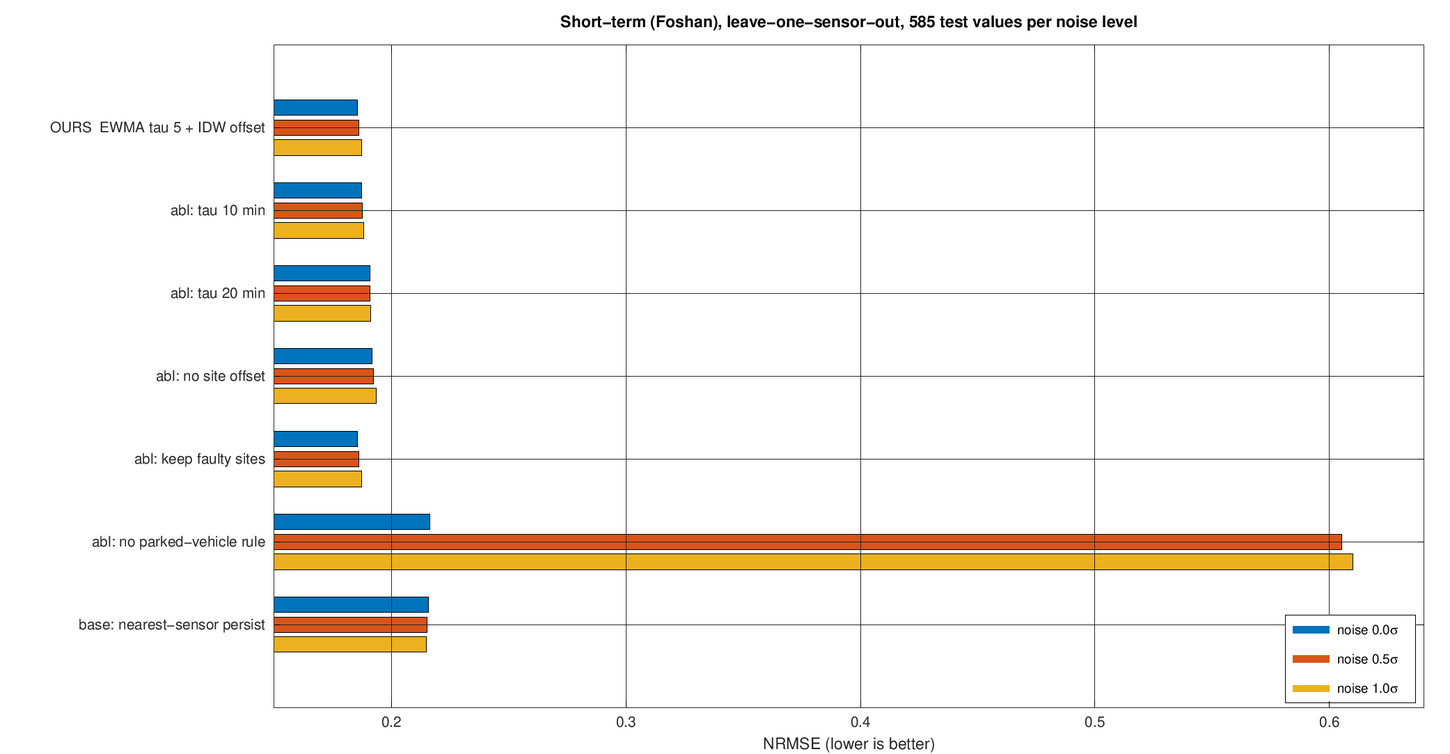
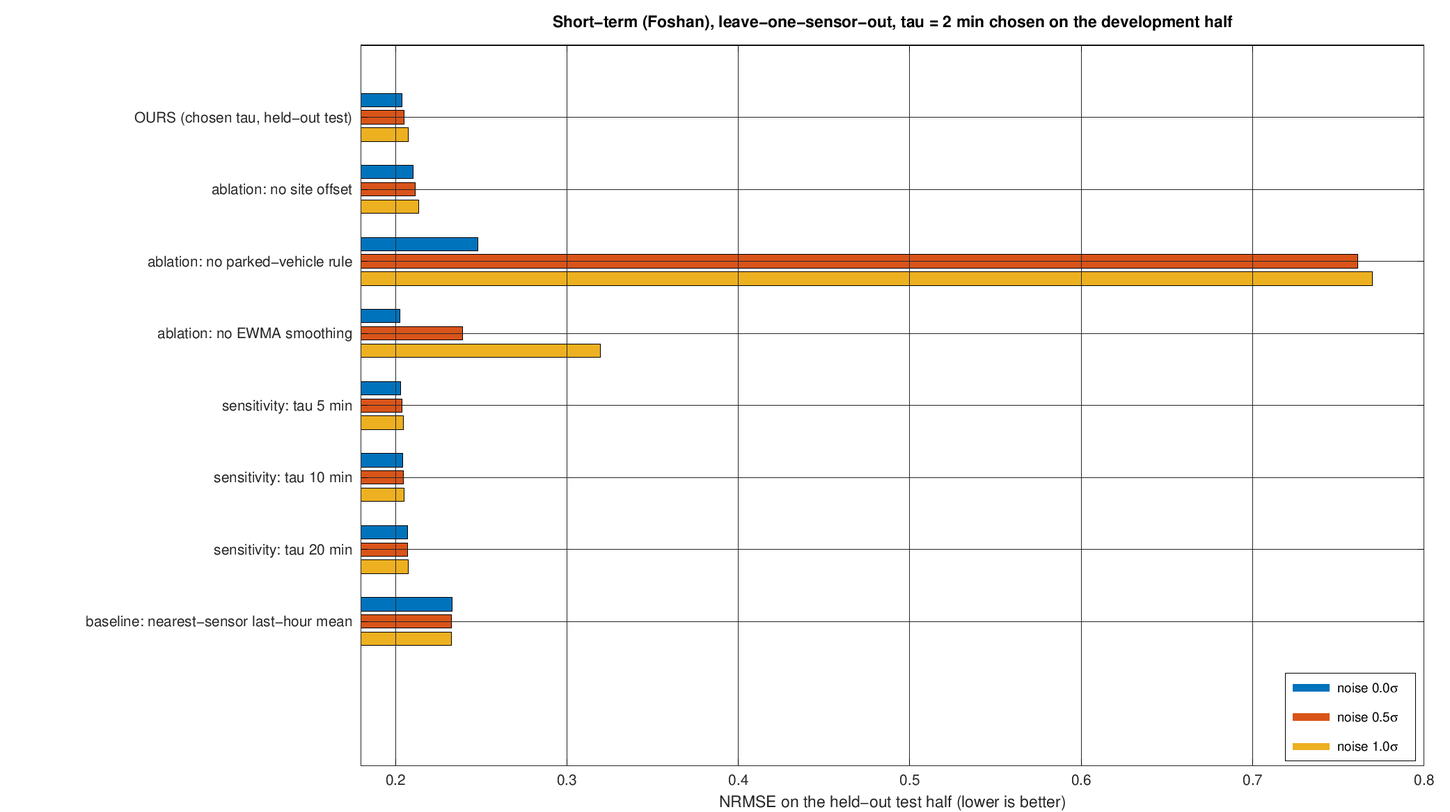
Short-term: tau re-selected on the development half (2 min); held-out test results; regenerated predictions
- st_validate (chronological split): dev-half mean NRMSE tau 2 .1472,
  5 .1479, 10 .1511, 20 .1558 -> tau 2. Held-out test half: 0.2038 /
  0.2052 / 0.2073 vs nearest-sensor last-hour mean 0.2332 / 0.2329 / 0.2327
- ablations at tau 2 (no offset, no parked rule, no smoothing) and tau
  sensitivity reported on the test half; figure now shows the test half
- competition predictions regenerated with tau 2 (means 78.93 / 78.82 / 78.54)
- report, READMEs and code comments updated; uncertainty and missing-data
  check rerun with tau 2

Claude-Session: https://claude.ai/code/session_01SFLU8cc91Nnwxv3mpAvCPj

diff --git a/src/pm_short_term.m b/src/pm_short_term.m
@@ -33,10 +33,12 @@ function [pred, pred_sd, info] = pm_short_term(train_data, test_data, opts)
 %     held-out test period, on all 5 sensors and with multi-sensor
 %     features: they overfit one 3-day window.
 %
-% RESULTS (leave-one-static-sensor-out backtest, Foshan, 585 test values)
-%   NRMSE   noise 0  /  0.5 sigma  /  1.0 sigma
-%   ours    0.1856   /  0.1862     /  0.1873
-%   nearest-sensor persistence baseline  0.2159 / 0.2152 / 0.2148
+% RESULTS (st_validate.m: leave-one-static-sensor-out, Foshan, forecasts
+% every 3 h; tau chosen on the first half of the origins, then the model is
+% scored once on the second half)
+%   held-out TEST half, NRMSE     noise 0  /  0.5 sigma  /  1.0 sigma
+%   ours (tau 2)                  0.2038   /  0.2052     /  0.2073
+%   nearest-sensor last-hour mean 0.2332   /  0.2329     /  0.2327
 %
 % Plain MATLAB, no toolboxes; also runs in GNU Octave.
 
@@ -88,8 +90,9 @@ info.clean.kept = sprintf('%d of %d rows', numel(tr.t), n0);
 % The last rule fixes a real bug: Foshan mobile #2 parks at a depot, and its
 % GPS jitter spreads it over ~70 coordinates with ~300 samples each and
 % >50% hourly coverage. Those passed as "static sites" and outvoted the 4
-% real ones. Ablation (st_validate.m) without this rule: NRMSE 0.2165 /
-% 0.6052 / 0.6098 at noise 0 / 0.5 / 1.0 sigma, vs 0.1856 / 0.1862 / 0.1873.
+% real ones. Ablation (st_validate.m, held-out test half) without this rule:
+% NRMSE 0.2479 / 0.7613 / 0.7698 at noise 0 / 0.5 / 1.0 sigma, vs 0.2038 /
+% 0.2052 / 0.2073 with it.
 % (5%, not more: co-located sensors - Tianjin static 1/3/4 - triple the
 % count of their shared coordinate.)
 th = floor(tr.t * 24); nHours = max(th) - min(th) + 1;
@@ -175,7 +178,7 @@ for k = 1:size(locs, 1)
     rows = (locId == k);
     % 7a. offset at the test site: inverse-distance weighting (power 2,
     %     minimum distance 0.2 km) of the sites' offsets. Validated: removing
-    %     it costs 0.006 NRMSE. (Calibrated mobile passes near the site were
+    %     it raises test-half NRMSE from 0.2038 to 0.2102 (noise 0). (Calibrated mobile passes near the site were
     %     tried as well and were worse: the static offsets are mostly sensor
     %     calibration, which vehicles driving past do not see.)
     if nS > 0
@@ -212,13 +215,14 @@ end
 function [level, tRef, src] = current_level(tr, g, siteKeys, o, isStaticRow, L, opts)
 % Exponentially weighted mean (EWMA) of EVERY raw static sample of the last
 % 3 h, offset-corrected per site:  w = exp(-age / tau).
-%   * tau trades noise against lag. tau chosen on the backtest:
-%       tau  5 min: 0.1856 / 0.1862 / 0.1873   (noise 0 / 0.5 / 1.0 sigma)
-%       tau 10 min: 0.1874 / 0.1877 / 0.1884
-%       tau 20 min: 0.1908 / 0.1910 / 0.1913
-%       last 10-min bin: 0.1873 / 0.1879 / 0.1888
-%     On ONE sensor the optimum is 10 min (single-sensor study); pooling 4
+%   * tau trades noise against lag. It is chosen on the development half
+%     of st_validate.m (mean NRMSE over noise 0 / 0.5 / 1.0 sigma):
+%       tau 2: 0.1472   tau 5: 0.1479   tau 10: 0.1511   tau 20: 0.1558
+%     On ONE sensor the optimum is ~10 min (single-sensor study); pooling 4
 %     sites gives 4x the samples, so a shorter, faster-reacting tau wins.
+%   * Removing the smoothing entirely (latest sample of each site) is as
+%     good without noise but much worse with it: test-half NRMSE 0.2028 /
+%     0.2393 / 0.3195 vs 0.2038 / 0.2052 / 0.2073.
 %   * Damping the level toward the 24-h mean (AR(1)) was worse (0.1914).
 % Static data must be RECENT to count as "now": if the newest static
 % sample is older than max_stale_min, a few stale samples would otherwise
@@ -280,8 +284,10 @@ end
 
 %% ============================== DEFAULTS =================================
 function o = fill_defaults(o)
-d.tau_min         = 5;     % EWMA time constant (minutes), chosen on the
-                           % development half of the backtest (st_validate.m)
+d.tau_min         = 2;     % EWMA time constant (minutes), chosen on the
+                           % DEVELOPMENT half of the backtest (st_validate.m):
+                           % mean dev NRMSE tau 2: .1472, 5: .1479, 10: .1511,
+                           % 20: .1558. Not re-chosen on the test half.
 d.level_method    = 'ewma';% 'ewma' | 'last' (ablation: no smoothing)
 d.bin_min         = 10;    % bin size for offsets / site checks (minutes)
 d.spike_k         = 12;    % spike threshold in robust sd

diff --git a/short_term/st_plot_validation.m b/short_term/st_plot_validation.m
@@ -1,29 +1,17 @@
-%ST_PLOT_VALIDATION  Figure of the st_validate.m results (report sections g/h).
-% Loads every short_term/validate_results_*.mat (one file per NOISE setting,
-% so runs per noise level can be done in parallel) and draws grouped bars:
-% NRMSE per model/ablation/baseline at noise 0, 0.5 and 1.0 sigma.
+%ST_PLOT_VALIDATION  Figure of the held-out TEST-half results (report g/h/i).
+% Reads short_term/validate_test_table.mat (written by st_validate_summary.m).
 %   run('short_term/st_plot_validation.m')
 ROOT = fileparts(fileparts(mfilename('fullpath')));
-F = dir(fullfile(ROOT, 'short_term', 'validate_results_*.mat'));
-noise = []; cols = {};
-for i = 1:numel(F)
-    D = load(fullfile(F(i).folder, F(i).name));
-    if D.QUICK, continue; end                     % full runs only
-    for q = 1:numel(D.NOISE)
-        noise(end+1) = D.NOISE(q); cols{end+1} = D.RES(:, q); %#ok<SAGROW>
-        labels = D.labels;
-    end
-end
-[noise, o] = unique(noise); R = [cols{o}];
-fprintf('%-32s', 'variant'); fprintf('  noise %.1f', noise); fprintf('\n');
-for v = 1:numel(labels), fprintf('%-32s', labels{v}); fprintf('  %9.4f', R(v,:)); fprintf('\n'); end
-% plot: drop the two far-off baselines so the important differences are visible
-show = find(R(:,1) < 0.4);
-f = figure('Color', 'w', 'Position', [80 80 1000 520]);
+D = load(fullfile(ROOT, 'short_term', 'validate_test_table.mat'));
+R = D.RT; labels = D.rowLabels; noise = D.nz;
+fprintf('%-42s', 'model'); fprintf('  noise %.1f', noise); fprintf('\n');
+for v = 1:numel(labels), fprintf('%-42s', labels{v}); fprintf('  %9.4f', R(v,:)); fprintf('\n'); end
+show = find(R(:,1) < 0.3);                     % drop the far-off baselines
+f = figure('Color', 'w', 'Position', [80 80 1000 560]);
 barh(R(show, :)); set(gca, 'YDir', 'reverse', 'YTick', 1:numel(show), 'YTickLabel', labels(show));
-xlabel('NRMSE (lower is better)'); grid on;
+xlabel('NRMSE on the held-out test half (lower is better)'); grid on;
 legend(arrayfun(@(x) sprintf('noise %.1f\\sigma', x), noise, 'UniformOutput', false), 'Location', 'southeast');
-title('Short-term (Foshan), leave-one-sensor-out, 585 test values per noise level');
-xlim([0.15 max(max(R(show,:))) * 1.05]);
+title(sprintf('Short-term (Foshan), leave-one-sensor-out, tau = %g min chosen on the development half', D.tauBest));
+xlim([0.18 min(0.8, max(max(R(show,:))) * 1.05)]);
 print(f, fullfile(ROOT, 'figures', 'st_validation.png'), '-dpng', '-r150');
 fprintf('saved figures/st_validation.png\n');

diff --git a/short_term/st_validate_summary.m b/short_term/st_validate_summary.m
@@ -47,14 +47,20 @@ end
 rows = [rows; {'base: nearest-sensor last-hour mean', 'baseline: nearest-sensor last-hour mean'
                'base: training mean', 'baseline: training mean'
                'base: daily profile', 'baseline: daily profile'}];
+RT = nan(size(rows,1), numel(R));             % test-half table, saved for plotting
 for part = {'TEST half (held out)', 'WHOLE period (development backtest)'}
-    sel = ~isDev; if strcmp(part{1}(1:5), 'WHOLE'), sel = true(size(isDev)); end
+    sel = ~isDev; isTest = ~strcmp(part{1}(1:5), 'WHOLE'); if ~isTest, sel = true(size(isDev)); end
     fprintf('\n=== %s, %d origins, chosen tau = %g min ===\n', part{1}, sum(sel), tauBest);
     fprintf('  %-42s', 'model'); fprintf('  noise %.1f', nz); fprintf('\n');
     for r = 1:size(rows,1)
         v = find(strcmp(labels, rows{r,1}));
         fprintf('  %-42s', rows{r,2});
-        for q = 1:numel(R), fprintf('  %9.4f', nr(R{q}, v, sel)); end
+        for q = 1:numel(R)
+            x = nr(R{q}, v, sel); fprintf('  %9.4f', x);
+            if isTest, RT(r, q) = x; end
+        end
         fprintf('\n');
     end
 end
+rowLabels = rows(:,2); %#ok<NASGU>
+save(fullfile(ROOT, 'short_term', 'validate_test_table.mat'), 'RT', 'rowLabels', 'nz', 'tauBest', 'devScore', 'TAUS', '-v7');

diff --git a/docs/short_term_report.md b/docs/short_term_report.md
@@ -1,6 +1,6 @@
 # Short-term prediction: report material
 
-Draft text and tables for the short-term part of the final report and slides. Every number comes from a script in this repo, named next to it. All of them were run on 11/12 in GNU Octave 8.4. The same code gives identical numbers in MATLAB: the quick `st_validate` run matched to 4 decimals.
+Draft text and tables for the short-term part of the final report and slides. Every number comes from a script in this repo, named next to it. They were run on 11/12–11/19 in GNU Octave 8.4. The same code gives identical numbers in MATLAB: the quick `st_validate` run matched to 4 decimals.
 
 **Task.** From 3 days of `train_data` (all static and mobile devices in Foshan, no device ID), predict the hourly mean PM2.5 for each of the next 3 hours at fixed test sites that have no data in `train_data`. The metric is NRMSE = RMSE / RMS(truth). The robustness tests add N(0, (0.5σ)²) and N(0, (1.0σ)²) noise to the training PM2.5.
 
@@ -35,10 +35,10 @@ Draft text and tables for the short-term part of the final report and slides. Ev
 | Spikes | Drop PM > median + 12 × 1.4826 × MAD (threshold 243 µg/m³) | 2,962 rows (0.14%), all mobile; max raw value 1494 | MAD keeps the threshold robust to the spikes themselves |
 | **No clipping** | Negative values are kept | — | The noise test creates negative samples, and clipping them would bias every mean upward |
 | Static vs mobile | A coordinate is static if it has data in ≥ 50% of hours, median speed < 2, and ≥ 5% of the busiest coordinate's samples | 4–5 sites found per window | There is no device ID in the matrix |
-| Parked-vehicle rule | (the 5% rule above) | Without it, a parked vehicle's GPS jitter creates ~70 fake "sites": NRMSE 0.2165 / 0.6052 / 0.6098 instead of 0.1856 / 0.1862 / 0.1873 (noise 0 / 0.5 / 1.0σ) | The most important cleaning step under noise |
+| Parked-vehicle rule | (the 5% rule above) | Without it, a parked vehicle's GPS jitter creates ~70 fake "sites": held-out test NRMSE 0.2479 / 0.7613 / 0.7698 instead of 0.2038 / 0.2052 / 0.2073 (noise 0 / 0.5 / 1.0σ) | The most important cleaning step under noise |
 | Faulty sites | Drop a site whose correlation with the others' median is < 0.7 | 0 in Foshan (sites are 0.93–0.98); catches Tianjin static #6 (0.54) | Robustness to a broken sensor |
 | Binning | 10-min means per static site (~200 samples each) | Noise reduced about 14×: about 1.8 µg/m³ per site-bin at 1.0σ | Used to check the sites, estimate the site offsets and the uncertainty. **The current level is not computed from these bins** (next row) |
-| Level smoothing | EWMA applied directly to the raw 3-s static samples, τ = 5 min | see section h | Trades noise against lag |
+| Level smoothing | EWMA applied directly to the raw 3-s static samples, τ = 2 min | see section h | Trades noise against lag |
 
 Single-sensor cleaning of static #3 (`st_single_sensor.m`): 2 Hampel spikes, 0 flat-lines of 10 min or more, 8 gaps longer than 6 s (longest 73 s), and 1 sparse 10-min bin. 99.999% of samples kept.
 
@@ -72,7 +72,7 @@ None of the examined features has a linear correlation above |r| ≈ 0.28 with t
 **Final model: multi-sensor persistence with exponential smoothing and a spatial offset correction.** PM(site, t) = L(t) + o(site), forecast held flat over h = 1..3. Linear and ridge regression were compared and not adopted (below).
 
 1. **Train** on the 3-day window, using the **10-min bin means** of each static site (S). Alternate L(t) = mean over sites of (S − o_s) and o_s = mean over time of (S − L), centred to sum to 0. The site offsets o_s are the learned parameters.
-2. **Level at the origin:** an exponentially weighted mean of every offset-corrected static sample in the last 3 h, w = exp(−age/τ) with τ = 5 min. τ was selected on the backtest from {5, 10, 20 min, last 10-min bin}.
+2. **Level at the origin:** an exponentially weighted mean (EWMA) applied directly to the **raw 3-s** offset-corrected static samples of the last 3 h, w = exp(−age/τ), with **τ = 2 min**. τ was chosen from {2, 5, 10, 20 min} on the **development half** of the backtest only (section g/h/i).
 3. **Offset at the test site:** inverse-distance weighting (power 2, minimum distance 0.2 km) of the o_s.
 4. **Fallbacks:**
    * If the newest static sample is more than 30 min old, use calibrated mobile data. The readings are shifted by the median mobile-minus-level bias of the window, and smoothed with τ = 15 min.
@@ -110,23 +110,43 @@ None of the examined features has a linear correlation above |r| ≈ 0.28 with t
 
 ## g/h/i. Results: baselines and ablations
 
-Leave-one-sensor-out over all 5 Foshan static sensors, forecasts every 3 h, 585 test values per noise level (`short_term/st_validate.m`; figure `figures/st_validation.png`):
+**Validation design** (`short_term/st_validate.m`, `short_term/st_validate_summary.m`):
+* Leave-one-sensor-out over all 5 Foshan static sensors. The held-out sensor's data is removed from training, as the competition test sites have no data in `train_data`.
+* Rolling origin: a forecast every 3 h (39 origins), each using only the 3 days before it.
+* **Chronological split of the origins.** The first half (19 origins, 11 Oct 00:00 – 13 Oct 06:00) is **development**: τ is chosen there, on the mean NRMSE over the three noise levels. The second half (20 origins, 13 Oct 09:00 – 15 Oct 21:00) is the **held-out test**, scored once with τ fixed.
+
+**τ selection, development half (mean NRMSE over noise 0 / 0.5 / 1.0σ):**
+
+| τ | 2 min | 5 min | 10 min | 20 min |
+|---|---|---|---|---|
+| Mean dev NRMSE | **0.1472** (chosen) | 0.1479 | 0.1511 | 0.1558 |
+
+τ = 2 min is the smallest value in the grid. The margin over τ = 5 min is small (0.0007).
+
+**Held-out test half** (figure `figures/st_validation.png`):
 
 | Model | Noise 0 | 0.5σ | 1.0σ |
 |---|---|---|---|
-| **Ours: EWMA τ = 5 + IDW offset** | **0.1856** | **0.1862** | **0.1873** |
-| Ablation: τ = 10 min | 0.1874 | 0.1877 | 0.1884 |
-| Ablation: τ = 20 min | 0.1908 | 0.1910 | 0.1913 |
-| Ablation: no site offset | 0.1918 | 0.1924 | 0.1935 |
-| Ablation: no parked-vehicle rule | 0.2165 | 0.6052 | 0.6098 |
-| Ablation: keep faulty sites | 0.1856 | 0.1862 | 0.1873 (none in Foshan) |
-| Baseline: nearest-sensor persistence | 0.2159 | 0.2152 | 0.2148 |
-| Baseline: training mean | 0.5266 | 0.5266 | 0.5266 |
-| Baseline: daily profile | 0.6006 | 0.6006 | 0.6005 |
+| **Ours (τ = 2 min, fixed)** | **0.2038** | **0.2052** | **0.2073** |
+| Ablation: no site offset | 0.2102 | 0.2117 | 0.2137 |
+| Ablation: no parked-vehicle rule | 0.2479 | 0.7613 | 0.7698 |
+| Ablation: no EWMA smoothing (latest sample of each site) | 0.2028 | 0.2393 | 0.3195 |
+| Sensitivity: τ = 5 min | 0.2029 | 0.2037 | 0.2048 |
+| Sensitivity: τ = 10 min | 0.2042 | 0.2046 | 0.2052 |
+| Sensitivity: τ = 20 min | 0.2070 | 0.2072 | 0.2075 |
+| Baseline: nearest-sensor last-hour mean | 0.2332 | 0.2329 | 0.2327 |
+| Baseline: training mean | 0.3627 | 0.3628 | 0.3628 |
+| Baseline: daily profile | 0.4260 | 0.4261 | 0.4261 |
 
-* **14% better than the best baseline** (0.186 vs 0.216).
-* Going from no noise to 1.0σ costs only 0.0017.
-* The single-sensor optimum is τ = 10 min (`figures/st_smoothing_vs_noise.png`). Pooling 4 sites quadruples the samples per minute, so the noise is already averaged down and a shorter τ wins.
+* **Our model reduced the held-out NRMSE by about 11–13% relative to nearest-sensor persistence using the last-hour mean** (12.6% / 11.9% / 10.9% at noise 0 / 0.5 / 1.0σ). The two methods differ in the number of sensors used, the smoothing and the offset correction, so the gain is not attributed to any one component.
+* Ablations (each removes one component, everything else fixed):
+  * **Site offset:** removing it costs about 0.006–0.007.
+  * **Parked-vehicle rule:** removing it is catastrophic under noise (0.76–0.77).
+  * **EWMA smoothing:** removing it makes no difference without noise (0.2028), but costs 0.034 at 0.5σ and 0.112 at 1.0σ. The smoothing exists for noise robustness.
+* **Sensitivity:** on the test half, τ = 5 min would have been slightly better (by ≤ 0.0025). We keep τ = 2 min because τ was fixed on the development half before the test half was scored.
+* The test half scores higher than the development half (0.204 vs 0.147). It contains the 14 Oct pollution event (failure condition 2).
+* The whole-period numbers (both halves; τ was tuned on part of them, so they are a **development backtest**, not a test result): ours 0.1857 / 0.1869 / 0.1894, nearest-sensor 0.2159 / 0.2152 / 0.2148.
+* Single sensor: the optimum is τ ≈ 10 min (`figures/st_smoothing_vs_noise.png`). Pooling 4 sites gives 4× the samples per minute, so a shorter τ wins here.
 
 **Where the remaining error is** (oracle analysis; Python prototype with hourly origins, where ours = 0.175):
 
@@ -141,22 +161,22 @@ Error grows with horizon (0.138 / 0.172 / 0.208 for h = 1/2/3) only because the 
 
 ## j. Uncertainty and limitations
 
-**Uncertainty** (`short_term/st_uncertainty.m`, 585 values):
+**Uncertainty** (`short_term/st_uncertainty.m`, 585 values, whole period, τ = 2 min):
 
 | Horizon | RMSE | Mean sd | Inside ±1 sd (68%) | Inside ±1.96 sd (95%) |
 |---|---|---|---|---|
-| h = 1 | 6.49 | 4.93 | 62.6% | 88.2% |
-| h = 2 | 7.73 | 7.45 | 79.5% | 92.3% |
-| h = 3 | 9.20 | 9.75 | 81.5% | 91.8% |
-| All | 7.88 | 7.38 | 74.5% | 90.8% |
+| h = 1 | 6.51 | 4.93 | 62.6% | 87.2% |
+| h = 2 | 7.73 | 7.45 | 80.5% | 92.8% |
+| h = 3 | 9.19 | 9.75 | 81.5% | 91.8% |
+| All | 7.89 | 7.38 | 74.9% | 90.6% |
 
-**The intervals are not well calibrated.** The 95% intervals under-cover (90.8% instead of 95%), most at h = 1 (88.2%), because the errors are heavy-tailed: pollution events produce a few large misses. The ±1 sd band is close to nominal overall (74.5% vs 68%), but it under-covers at h = 1 and over-covers at h = 2–3.
+**The intervals are not well calibrated.** The 95% intervals under-cover (90.6% instead of 95%), most at h = 1 (87.2%), because the errors are heavy-tailed: pollution events produce a few large misses. The ±1 sd band is close to nominal overall (74.9% vs 68%), but it under-covers at h = 1 and over-covers at h = 2–3.
 
 **Failure conditions**
 
 1. **Site-specific offsets.** The static sites differ by up to ±7 µg/m³ (s2 −6.8, s3 +7.5), while mobile sensors passing within 200 m read close to the city average there. The mobile-minus-static difference at the same minute is +13.9 at s2 and +3.5 at s3. This suggests the offsets **may partly reflect calibration differences between sensors**, but device, location (e.g. mounting height, distance to the road) and sampling conditions remain confounded. To the extent that an offset is specific to the test sensor, methods based on the other sensors cannot recover it: holding out s2 gives NRMSE 0.256, against 0.176 with its true offset.
 2. **Sudden pollution events.** Persistence cannot anticipate a rise or fall within the next 3 h. The examined features showed only weak linear associations with the change (|r| < 0.3), and the regressions tested did not improve on the test period. Errors peak at h = 3 and in events such as 14 Oct 06:00–12:00.
-3. **Missing static data at the forecast time.** The mobile fallback raises NRMSE from 0.181 to 0.238 (missing-data check in `st_validate.m`). Before the stale-sample fix, this case gave 0.485.
+3. **Missing static data at the forecast time.** The mobile fallback raises NRMSE from 0.182 to 0.241 (missing-data check in `st_validate.m`, every 4th origin, noise 0). Before the stale-sample fix, this case gave 0.485.
 4. **Extrapolation in space.** IDW cannot extrapolate beyond the sensors. A test site at the edge of the area, like s2, inherits a level that is too high.
 5. **Extrapolation in PM range.** The static sensors in this week stay below 180 µg/m³ (static maxima 130–177 µg/m³). Persistence itself has no range limit, but the site offsets are additive and estimated at typical levels. If a sensor's error scales with concentration, the offset will be wrong during an extreme event outside the training range.
 
@@ -170,6 +190,22 @@ Error grows with horizon (0.138 / 0.172 / 0.208 for h = 1/2/3) only because the 
   * Kriging or a GP for the offsets, with calibrated uncertainty.
   * A space-time model (Lecture 9).
   * Pre-training the change model on more weeks, if the course allows it.
+
+## Competition run (11/16 data)
+
+* **Format:** the files are MATLAB tables (time as datetime), not the matrices described in the handout. For short-term only `separated_train_data_*` is provided (static and mobile in separate tables). `pm_short_term` and `pm2d5_pred_model` accept tables directly.
+* **Static detection check:** the code's own static/mobile separation agrees with the separated files (430,643 static rows, 5 sites, none dropped). The level comes from the static EWMA, not a fallback.
+* **Time stamps mark hour ends:** the test row at 07:00 has the humidity of the co-located Canvas sensor's [06:00, 07:00) mean. So the 3 targets are [06,07), [07,08), [08,09), contiguous with the end of training (06:00). This does not change the flat prediction; `pred_sd` detects it.
+* **Test sites:** 3 fixed sensors (speed 0.16–0.32), 0.80–0.94 km from the nearest training static site.
+* **Predictions** (τ = 2 min; `submissions/pred_short_term_<n>_var.mat`), µg/m³, the same for all 3 hours:
+
+| Test site | Noise 0 | 0.5σ | 1.0σ |
+|---|---|---|---|
+| 23.057191, 113.142105 | 77.66 | 77.55 | 77.29 |
+| 23.044381, 113.142363 | 80.08 | 79.97 | 79.65 |
+| 23.048606, 113.156814 | 79.04 | 78.95 | 78.68 |
+
+* **Expected risk:** training ends during a steep rise, from about 50 µg/m³ at midnight to about 78 just before 06:00. Persistence will under-predict if the rise continues (failure condition 2).
 
 ## m. AI use (short-term part)
 

diff --git a/short_term/README.md b/short_term/README.md
@@ -8,25 +8,30 @@
 [pred, pred_sd, info] = pm_short_term(train_data, test_data);   % opts optional
 ```
 
-To validate it the way the competition scores it, run `run('short_term/st_validate.m')`. That does leave-one-sensor-out, a rolling origin every 3 h, and 585 test values per noise level.
+Validation: `run('short_term/st_validate.m')`. It does leave-one-sensor-out with a forecast every 3 h. **τ is chosen on the first half of the forecast origins only**, and the model is then scored once on the second half (`st_validate_summary.m` prints both).
+
+τ selection, development half (mean NRMSE over the 3 noise levels): τ 2 = 0.1472 (**chosen**), 5 = 0.1479, 10 = 0.1511, 20 = 0.1558.
+
+**Held-out test half** (20 origins, 13–15 Oct):
 
 | | Noise 0 | 0.5σ | 1.0σ |
 |---|---|---|---|
-| **pm_short_term (EWMA τ 5 + IDW offset)** | **0.1856** | **0.1862** | **0.1873** |
-| abl: τ = 10 min | 0.1874 | 0.1877 | 0.1884 |
-| abl: τ = 20 min | 0.1908 | 0.1910 | 0.1913 |
-| abl: no site offset | 0.1918 | 0.1924 | 0.1935 |
-| abl: keep faulty sites (none in Foshan) | 0.1856 | 0.1862 | 0.1873 |
-| **abl: no parked-vehicle rule** | 0.2165 | **0.6052** | **0.6098** |
-| base: nearest-sensor persistence | 0.2159 | 0.2152 | 0.2148 |
-| base: training mean | 0.5266 | 0.5266 | 0.5266 |
-| base: daily profile | 0.6006 | 0.6006 | 0.6005 |
+| **pm_short_term (τ = 2 min, fixed)** | **0.2038** | **0.2052** | **0.2073** |
+| abl: no site offset | 0.2102 | 0.2117 | 0.2137 |
+| abl: no parked-vehicle rule | 0.2479 | 0.7613 | 0.7698 |
+| abl: no EWMA smoothing (latest sample) | 0.2028 | 0.2393 | 0.3195 |
+| sensitivity: τ = 5 / 10 / 20 min | 0.2029 / 0.2042 / 0.2070 | 0.2037 / 0.2046 / 0.2072 | 0.2048 / 0.2052 / 0.2075 |
+| base: nearest-sensor last-hour mean | 0.2332 | 0.2329 | 0.2327 |
+| base: training mean | 0.3627 | 0.3628 | 0.3628 |
+| base: daily profile | 0.4260 | 0.4261 | 0.4261 |
 
-Missing-data check: with static data removed from the last 3 h, the calibrated-mobile fallback gives 0.238, against 0.181 with full data on the same subset. That is worse than normal operation but bounded. Before the stale-sample fix, this case gave 0.485.
+Our model reduced held-out NRMSE by about 11–13% relative to nearest-sensor persistence using the last-hour mean. The two differ in the number of sensors, the smoothing and the offset, so the gain is not attributed to one component.
 
-The parked-vehicle rule is the single most important cleaning step under noise. Without it, the fake "static sites" from a parked vehicle's GPS jitter triple the error.
+The whole period (39 origins) is a **development backtest**, because τ was tuned on part of it: ours 0.1857 / 0.1869 / 0.1894, nearest-sensor 0.2159 / 0.2152 / 0.2148. The earlier "0.1856 / 0.1862 / 0.1873" (τ = 5 chosen on the whole period) is in the same category and is superseded.
 
-Tested in GNU Octave 8.4. The code uses base MATLAB only, but it has not been run in MATLAB yet.
+Missing-data check (every 4th origin, noise 0): with static data removed from the last 3 h, the calibrated-mobile fallback gives 0.2410, against 0.1816 with full data on the same subset.
+
+Tested in GNU Octave 8.4; the quick run matched MATLAB to 4 decimals.
 
 # Single-sensor study
 

diff --git a/submissions/README.md b/submissions/README.md
@@ -2,13 +2,15 @@
 
 `pred_<task>_<n>_var.mat` holds `pred_pm2d5` (M × 1, same row order as `test_data`) and `pred_sd` (1-σ uncertainty). The `.csv` copy has the columns `[pred_pm2d5, pred_sd]`.
 
-Short-term (from `src/pm_short_term.m`, generated 11/17 in Octave from `data/competition`; MATLAB: `TASKS = 1; run('run_competition.m')`):
+Short-term (from `src/pm_short_term.m`, **τ = 2 min**; regenerated 11/19 after τ was re-selected on the development half of the backtest). In MATLAB: `TASKS = 1; run('run_competition.m')`.
 
 | Test site (lat, lon) | Noise 0 | 0.5σ | 1.0σ |
 |---|---|---|---|
-| 23.057191, 113.142105 | 77.01 | 76.98 | 76.57 |
-| 23.044381, 113.142363 | 79.44 | 79.40 | 78.93 |
-| 23.048606, 113.156814 | 78.40 | 78.38 | 77.96 |
+| 23.057191, 113.142105 | 77.66 | 77.55 | 77.29 |
+| 23.044381, 113.142363 | 80.08 | 79.97 | 79.65 |
+| 23.048606, 113.156814 | 79.04 | 78.95 | 78.68 |
+
+Expected `run_competition.m` means: 78.93 / 78.82 / 78.54. The previous τ = 5 version gave 78.28 / 78.25 / 77.82.
 
 The same value applies to all 3 hours: persistence. `pred_sd` is 4.3 / 5.2 / 6.2 for the 07:00 / 08:00 / 09:00 rows.
 
